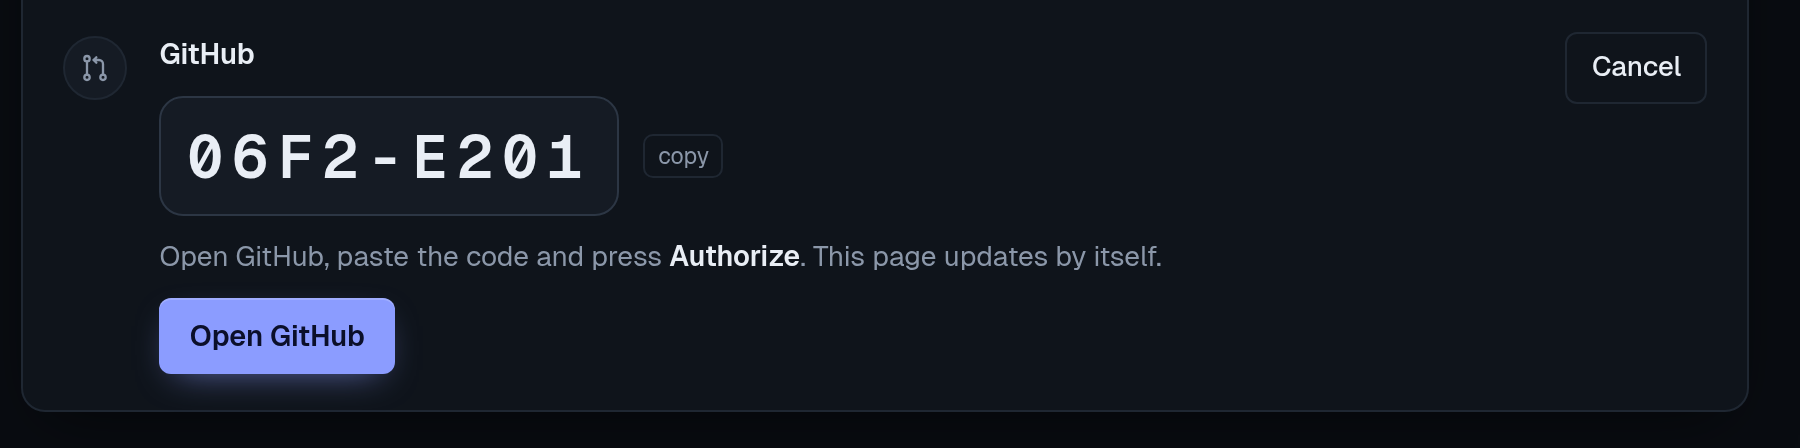
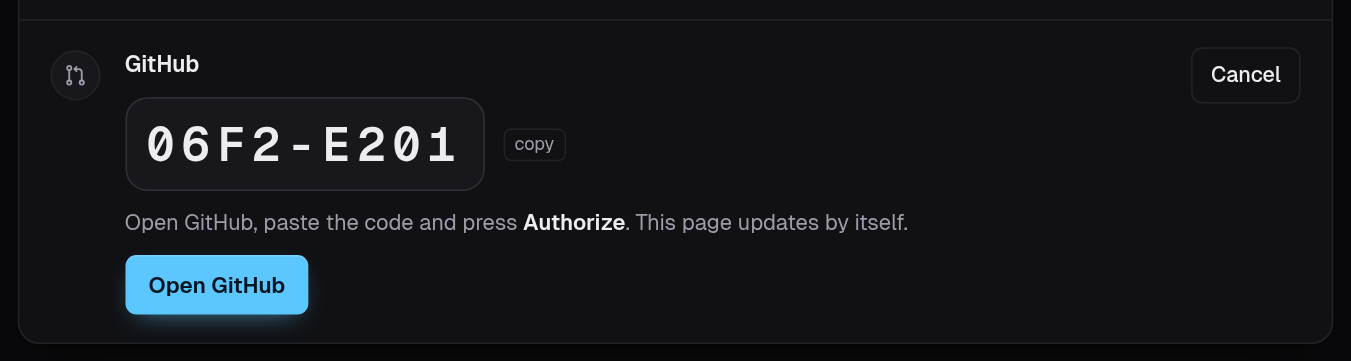
T72: README app screenshots in the refreshed design
Re-capture the Runs page and the GitHub sign-in card from the refreshed
app. Capturing showed the SHA column squeezing run names beside the
detail at 1280 px, so it hides there like the PR branch column. The
walkthrough video predates the refresh; the README says so.

Claude-Session: https://claude.ai/code/session_01YGZU6qzXEgTvzWYzbWXsex

diff --git a/src/proofmerge/dashboard_static/legacy/app.js b/src/proofmerge/dashboard_static/legacy/app.js
@@ -163,7 +163,7 @@
       <table>
         <thead><tr>
           ${head("verdict", "Verdict")}${head("name", "Run")}
-          <th class="hide-sm">Base → head</th>
+          <th class="hide-sm col-shas">Base → head</th>
           ${head("regressions", "Regressions", "num")}${head("calls", "Calls", "num hide-sm")}
         </tr></thead>
         <tbody ref=${body} tabIndex="0" onKeyDown=${onKey} aria-label="Runs; use arrow keys to move">
@@ -179,7 +179,7 @@
                   ${run.error ? run.error : null}
                 </div>
               </td>
-              <td class="hide-sm mono">${short(run.base_sha)} → ${short(run.head_sha)}</td>
+              <td class="hide-sm mono col-shas">${short(run.base_sha)} → ${short(run.head_sha)}</td>
               <td class="num">${run.regressions ?? "—"}</td>
               <td class="num hide-sm">${run.calls ?? "—"}</td>
             </tr>`)}

diff --git a/src/proofmerge/dashboard_static/legacy/app.css b/src/proofmerge/dashboard_static/legacy/app.css
@@ -637,6 +637,7 @@ blockquote { margin: .4rem 0; padding: .45rem .8rem; background: var(--raised); 
 .md-table th, .md-table td { padding: .45rem .7rem; border-bottom: 1px solid var(--rule); text-align: left; }
 .md-table tbody tr { cursor: default; }
 .md-table tbody tr:last-child td { border-bottom: 0; }
-/* Beside the detail the branch column pushed the verdict column out of view; the detail shows the branch. */
-@media (min-width: 64.01rem) and (max-width: 110rem) { .pr-table .hide-sm { display: none; } }
+/* Beside the detail, the PR branch and the run SHAs squeezed the names to a few letters a line;
+   the detail shows both. */
+@media (min-width: 64.01rem) and (max-width: 110rem) { .pr-table .hide-sm, .col-shas { display: none; } }
 .pr-table td:last-child { white-space: nowrap; }

diff --git a/README.md b/README.md
@@ -38,7 +38,7 @@ tests; Muse Wonder 1.0 checks Spark's work. [MIT licensed](LICENSE).
 
 ## Use it without a terminal
 
-<img alt="The ProofMerge app in the browser: the Runs page with three BLOCK runs and one REVIEW run, every one marked 'evidence intact', and the selected run's verdict, BLOCK, 'Verified regression — do not merge', with its reasons, commits, model calls and buttons to open the report, download it, check the evidence and run the tests again." src="docs/assets/app-runs.png" width="100%">
+<img alt="The ProofMerge app in the browser: the Runs page with three BLOCK runs and one REVIEW run, every one marked 'evidence intact', and the selected run's verdict, BLOCK, 'Verified regression — do not merge', with its reasons, commits, model calls and the line 'Muse Spark wrote the tests, Muse Wonder checked them'." src="docs/assets/app-runs.png" width="100%">
 
 `proofmerge app` opens ProofMerge in your browser and does everything the
 command line does. It was built for people who never open a terminal:
@@ -71,7 +71,8 @@ in `~/ProofMerge/runs`, repositories in `~/ProofMerge/repos`.
 <a href="docs/assets/walkthrough.mp4"><img alt="Animated preview: on the Pull requests page, PR #12 'Cache SKU prices per tenant' is verified; ProofMerge asks before it runs, shows progress, then the run page shows BLOCK, 'Verified regression — do not merge'." src="docs/assets/walkthrough-preview.gif" width="100%"></a>
 
 [Watch the full walkthrough](docs/assets/walkthrough.mp4) (4 min 20 s, no
-sound, captions on screen). It covers every use case in order: setup, GitHub
+sound, captions on screen). It was recorded before the app's 2026-11-03 visual
+refresh, so the colours and the Home layout differ from the screenshots above. It covers every use case in order: setup, GitHub
 sign-in, picking a repository, verifying a pull request, the evidence and the
 report, checking a local branch, runs and benchmarks, then the terminal
 (`verify`, `replay`) and the Agent Skill.

diff --git a/BUILDLOG.md b/BUILDLOG.md
@@ -710,3 +710,9 @@ release-stock-guard                  NOT_BLOCK  FAIL       PASS
 - Tests: `test_dashboard_markdown.py` (runs `markdown.js` in Node: structure, and `javascript:`/`data:` links, images, raw HTML and comments staying inert) and `test_report_names_the_models_the_run_used`.
 - Review fix (Codex, #64): a description of thousands of backticks made the inline pattern backtrack for seconds (10,000 took over 10 s), freezing the page while it rendered. Every inline span now has a bounded length; the same test set found that thousands of nested `>` overflowed the call stack, so quote nesting stops at 8 levels. `test_hostile_descriptions_render_in_linear_time` runs ten such inputs (20,000–80,000 characters, each under 0.2 s); the backtick case fails on the previous parser.
 - `pytest -q`: 877 passed, 1 skipped. `ruff check src tests`: all checks passed.
+
+### 2026-11-03 — T72 README app screenshots in the refreshed design (Claude)
+- `docs/assets/app-runs.png` and `docs/assets/app-github-sign-in.png` re-captured from the refreshed app (headless Chrome, 1280×800 at 1.5625×, dark), same content as before: the Runs page on copies of the committed demo runs (three BLOCK, one REVIEW, all evidence intact; the committed bundles were not touched), and the Setup GitHub row while signing in. For the sign-in card `gh` was a stand-in script that prints the one-time code `06F2-E201`; nothing reached GitHub.
+- Found while capturing: beside the detail, the Base → head column squeezed run names to a few characters a line at 1280 px. Between 64rem and 110rem that column now hides, as the PR branch column already does; the detail shows both SHAs.
+- The walkthrough video and its GIF were not re-recorded (the recording harness is not in the repository); the README now says they predate the visual refresh.
+- `pytest -q tests/test_dashboard*.py`: all passed. `ruff check src tests`: all checks passed.
